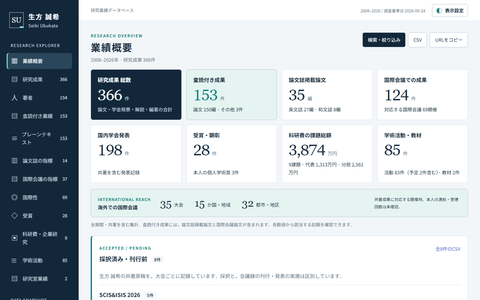
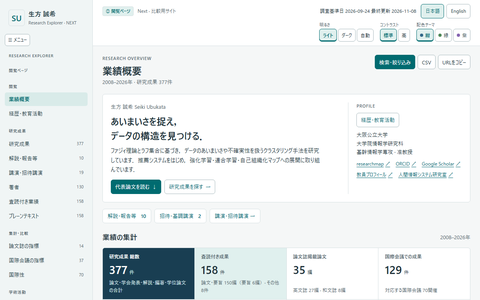
Point the Research Explorer card to the new site
Switch the Ubukata page link (Japanese and English) to the
research-explorer-next site and retake the preview image from it.

diff --git a/en/ubukata/index.html b/en/ubukata/index.html
@@ -91,7 +91,7 @@
 <section class="section link-section">
   <div class="container">
     <h2>Research Explorer</h2>
-    <a class="preview-card explorer-card" href="https://ubukata-research-explorer.ubucat.chatgpt.site/" target="_blank" rel="noopener noreferrer">
+    <a class="preview-card explorer-card" href="https://ubukata-research-explorer-next.ubucat.chatgpt.site/" target="_blank" rel="noopener noreferrer">
       <img src="/ubukata/research-explorer-preview.png" alt="Overview screen of Research Explorer" width="480" height="300" loading="lazy">
       <div class="preview-card-body">
         <span class="preview-card-title">Seiki Ubukata Research Explorer</span>

diff --git a/ubukata/index.html b/ubukata/index.html
@@ -91,7 +91,7 @@
 <section class="section link-section">
   <div class="container">
     <h2>Research Explorer</h2>
-    <a class="preview-card explorer-card" href="https://ubukata-research-explorer.ubucat.chatgpt.site/" target="_blank" rel="noopener noreferrer">
+    <a class="preview-card explorer-card" href="https://ubukata-research-explorer-next.ubucat.chatgpt.site/" target="_blank" rel="noopener noreferrer">
       <img src="research-explorer-preview.png" alt="Research Explorer の業績概要画面" width="480" height="300" loading="lazy">
       <div class="preview-card-body">
         <span class="preview-card-title">生方誠希 Research Explorer</span>
